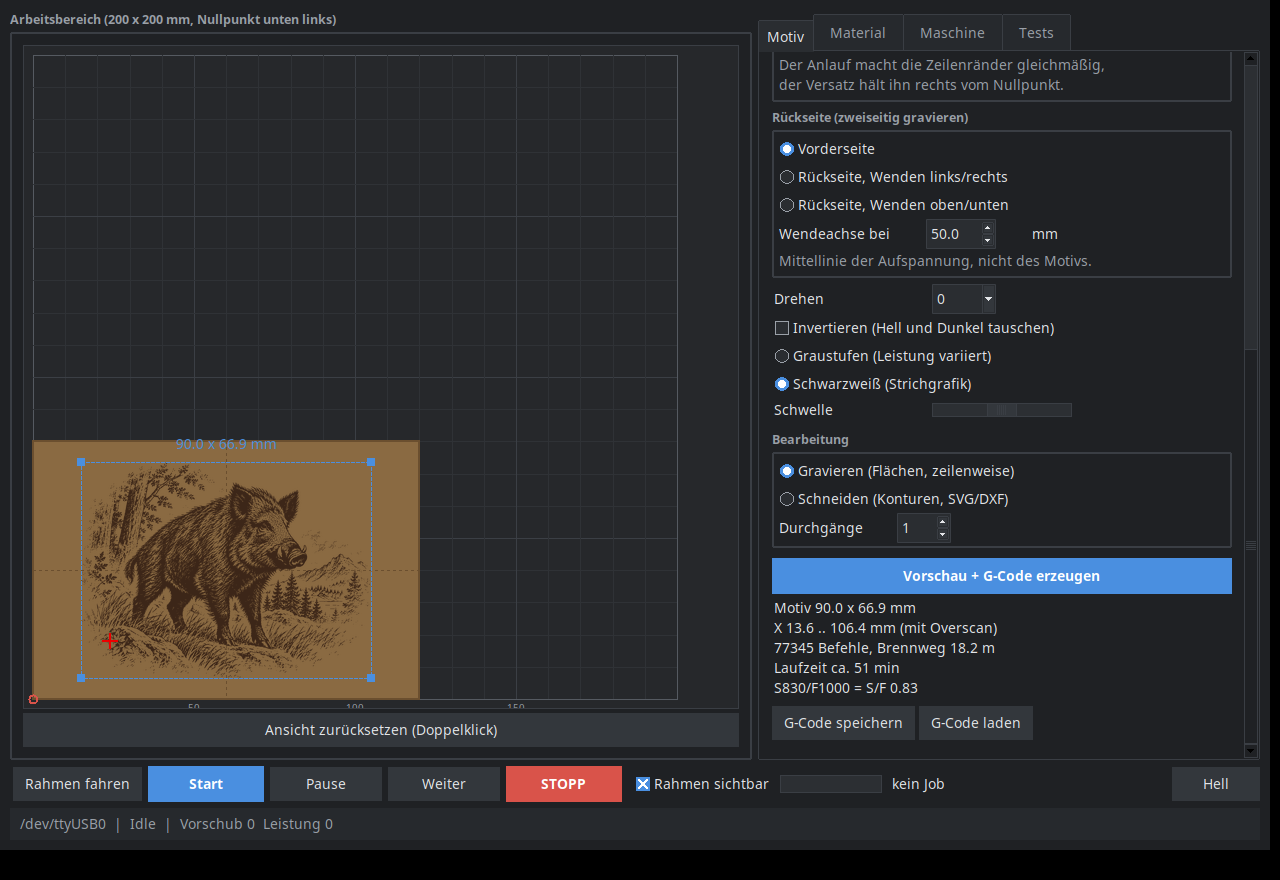
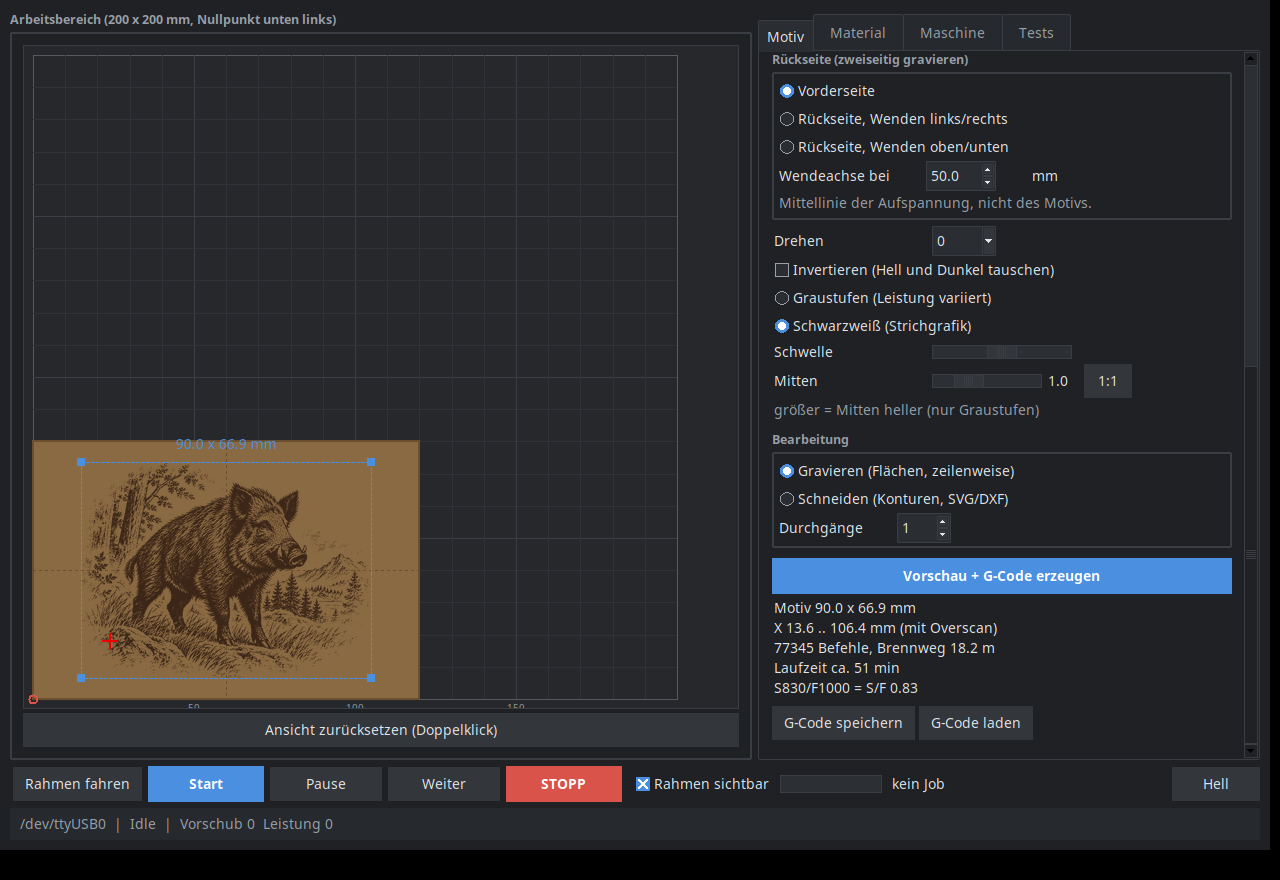
Tonwertregler fuer Graustufen
Der Parameter gamma aus lw_job.prepare() hat jetzt einen Schieber in der
Oberflaeche. Er senkt oder hebt nur die Mitteltoene - Schwarz bleibt
schwarz, fast weisse Stellen bleiben aus. Damit laesst sich ein zulaufendes
Graustufenmotiv retten, ohne die Leistung so weit zu senken, dass auch die
dunklen Stellen flach werden.

Wird im Materialpreset mitgespeichert; aeltere Presets ohne den Wert laufen
weiter und bekommen 1,0.

Changed region(s): [[0.5938, 0.0614, 0.875, 0.4909], [0.8125, 0.4295, 0.8438, 0.4602]]

diff --git a/laserwerk.py b/laserwerk.py
@@ -117,7 +117,7 @@ class App:
         # jede Aenderung, die den G-Code beeinflusst, macht ihn ungueltig
         for v in (self.v_inv, self.v_mode, self.v_schw, self.v_rot,
                   self.v_s, self.v_f, self.v_line, self.v_job, self.v_passes,
-                  self.v_xoff, self.v_over, self.v_yoff,
+                  self.v_xoff, self.v_over, self.v_yoff, self.v_gamma,
                   self.v_spiegel, self.v_achse):
             v.trace_add("write", lambda *a: self._stale())
         for v in (self.v_bw, self.v_bh, self.v_board, self.v_snap):
@@ -286,8 +286,25 @@ class App:
         ttk.Scale(f, from_=0.1, to=0.9, variable=self.v_schw, length=140
                   ).grid(row=12, column=1, columnspan=2, sticky="w")
 
+        # Tonwertkurve: hebt oder senkt nur die Mitten. Schwarz bleibt schwarz,
+        # Weiss bleibt aus - das Mittel gegen "laeuft alles zu".
+        self.v_gamma = tk.DoubleVar(value=1.0)
+        ttk.Label(f, text=T("Mitten")).grid(row=13, column=0, sticky="w")
+        sg = ttk.Frame(f)
+        sg.grid(row=13, column=1, columnspan=2, sticky="w")
+        ttk.Scale(sg, from_=0.4, to=2.5, variable=self.v_gamma, length=110,
+                  command=lambda v: self._gamma_zeigen()).pack(side="left")
+        self.lbl_gamma = ttk.Label(sg, width=4)
+        self.lbl_gamma.pack(side="left", padx=(4, 0))
+        ttk.Button(sg, text="1:1", width=3,
+                   command=lambda: self.v_gamma.set(1.0)).pack(side="left", padx=(2, 0))
+        self.lbl_gammahilfe = ttk.Label(
+            f, text=T("größer = Mitten heller (nur Graustufen)"), style="Muted.TLabel")
+        self.lbl_gammahilfe.grid(row=14, column=0, columnspan=3, sticky="w")
+        self._gamma_zeigen()
+
         jb = ttk.LabelFrame(f, text=T("Bearbeitung"), padding=4)
-        jb.grid(row=13, column=0, columnspan=3, sticky="ew", pady=(8, 0))
+        jb.grid(row=15, column=0, columnspan=3, sticky="ew", pady=(8, 0))
         self.v_job = tk.StringVar(value="gravur")
         ttk.Radiobutton(jb, text=T("Gravieren (Flächen, zeilenweise)"), value="gravur",
                         variable=self.v_job, command=self._job_changed).grid(row=0, column=0, columnspan=3, sticky="w")
@@ -299,11 +316,11 @@ class App:
                     ).grid(row=2, column=1, sticky="w")
 
         ttk.Button(f, text=T("Vorschau + G-Code erzeugen"), command=self.generate, style="Accent.TButton"
-                   ).grid(row=14, column=0, columnspan=3, sticky="ew", pady=(10, 2))
+                   ).grid(row=16, column=0, columnspan=3, sticky="ew", pady=(10, 2))
         self.lbl_info = ttk.Label(f, text="", justify="left")
-        self.lbl_info.grid(row=15, column=0, columnspan=3, sticky="w")
+        self.lbl_info.grid(row=17, column=0, columnspan=3, sticky="w")
         bb = ttk.Frame(f)
-        bb.grid(row=16, column=0, columnspan=3, sticky="ew", pady=6)
+        bb.grid(row=18, column=0, columnspan=3, sticky="ew", pady=6)
         ttk.Button(bb, text=T("G-Code speichern"), command=self.save_gcode).pack(side="left")
         ttk.Button(bb, text=T("G-Code laden"), command=self.load_gcode).pack(side="left", padx=4)
 
@@ -625,6 +642,13 @@ class App:
         self._stale()
         self._draw()
 
+    def _gamma_zeigen(self):
+        try:
+            g = float(self.v_gamma.get())
+        except tk.TclError:
+            return
+        self.lbl_gamma.configure(text=f"{g:.1f}")
+
     def _rotated(self):
         self._keep_ratio("w")
 
@@ -668,6 +692,7 @@ class App:
             if need > src.width * 1.2:
                 src = J.autocrop(J.load_source(self.src_path, need), 245)
         p = J.prepare(src, w, h, line, invert=self.v_inv.get(),
+                      gamma=max(0.2, float(self.v_gamma.get())),
                       rotate=self.v_rot.get(), mode=self.v_mode.get(),
                       schwelle=self.v_schw.get())
         over = max(0.0, float(self.v_over.get()))
@@ -818,6 +843,7 @@ class App:
         self.v_s.set(d.get("s", 830)); self.v_f.set(d.get("f", 1000))
         self.v_line.set(d.get("line", 0.1)); self.v_notiz.set(d.get("notiz", ""))
         self.v_mode.set(d.get("mode", "schwelle")); self.v_schw.set(d.get("schwelle", 0.5))
+        self.v_gamma.set(d.get("gamma", 1.0)); self._gamma_zeigen()
         self.v_pname.set(self.v_preset.get())
 
     def _show_sf(self):
@@ -858,6 +884,7 @@ class App:
         self.presets[n] = dict(dicke=self.v_dicke.get(), korrektur=self.v_korr.get(),
                                s=self.v_s.get(), f=self.v_f.get(), line=self.v_line.get(),
                                mode=self.v_mode.get(), schwelle=round(self.v_schw.get(), 2),
+                               gamma=round(self.v_gamma.get(), 2),
                                notiz=self.v_notiz.get())
         P.save_presets(self.presets)
         self.cb_preset.configure(values=sorted(self.presets))

diff --git a/lw_text.py b/lw_text.py
@@ -599,4 +599,7 @@ EN = {
         "(Laserwerk still open, no STOP, cable not pulled). Then the head\n"
         "stands exactly at the end of the last command executed, and the\n"
         "origin (WCO) is still valid.\n",
+    "Mitten": "Midtones",
+    "größer = Mitten heller (nur Graustufen)":
+        "higher = lighter midtones (greyscale only)",
 }

diff --git a/README.md b/README.md
@@ -21,8 +21,9 @@ settings for a new material.
 ## What it does
 
 - **Engrave** — images (PNG, JPG, WEBP, BMP) and SVG as a raster, row by row,
-  either black and white with a threshold or greyscale with varying power.
-  Overscan at the row ends keeps the edges even.
+  either black and white with a threshold or greyscale with varying power,
+  with a midtone control for the tonal curve. Overscan at the row ends keeps
+  the edges even.
 - **Cut** — contours from SVG and DXF, inner before outer, several passes,
   original size 1:1 for templates straight out of CAD.
 - **Place** — enter the length and width of your workpiece, then drag the
@@ -99,6 +100,14 @@ The presets shipped here were measured on **one** machine: 450 nm, 5.5 W
 optical. A different laser, lens or focus means different values. Treat them as
 a starting point for your own material test, not as a recipe. Too much power at
 too little feed does not mean "darker", it eventually means "on fire".
+
+That goes double for **greyscale**: there every row burns across the whole
+area, and the next row meets material that is already warm. On the reference
+machine S175 worked on cardboard and S130 on plywood — a sixth of what the
+same wood takes as line art. The S value is the maximum, reached at pure
+black; below it sits a floor at 30 %, and near-white areas stay off entirely.
+If an image still fills in, the **Midtones** control helps more than less
+power: it lowers the middle tones only, black stays black.
 
 What does carry over is the **S/F ratio**: power divided by feed, that is the
 energy per millimetre. On the reference machine wood works at S830/F1000 =

diff --git a/README.de.md b/README.de.md
@@ -21,7 +21,8 @@ Material ausprobieren will.
 
 - **Gravieren** — Bilder (PNG, JPG, WEBP, BMP) und SVG als Raster, zeilenweise,
   wahlweise schwarzweiß mit Schwelle oder Graustufen mit veränderlicher
-  Leistung. Anlauf (Overscan) an den Zeilenenden für saubere Ränder.
+  Leistung, samt Tonwertregler für die Mitten. Anlauf (Overscan) an den
+  Zeilenenden für saubere Ränder.
 - **Schneiden** — Konturen aus SVG und DXF, innen vor außen, mehrere Durchgänge,
   Originalgröße 1:1 für Schablonen aus dem CAD.
 - **Platzieren** — Werkstück mit Länge und Breite angeben, Motiv mit der Maus
@@ -99,6 +100,15 @@ Die mitgelieferten Presets wurden auf **einer** Maschine gemessen: 450 nm,
 sind ein Startpunkt für einen eigenen Materialtest, kein Rezept. Zu viel
 Leistung bei zu wenig Vorschub heißt nicht „dunkler", sondern irgendwann
 „brennt".
+
+Für **Graustufen** gilt das doppelt: Dort brennt jede Zeile über die ganze
+Fläche, und die Nachbarzeile trifft schon vorgewärmtes Material. Gemessen
+wurden auf der Referenzmaschine S175 auf Pappe und S130 auf Schichtplatte —
+ein Sechstel dessen, was dasselbe Holz als Strichgrafik verträgt. Der S-Wert
+ist dabei das Maximum, erreicht bei reinem Schwarz; darunter liegt ein Boden
+bei 30 %, und fast weiße Stellen bleiben ganz aus. Läuft ein Motiv trotzdem
+zu, hilft der Regler **Mitten** mehr als weniger Leistung: Er senkt nur die
+Mitteltöne, Schwarz bleibt schwarz.
 
 Was übertragbar ist, ist das **Verhältnis S/F**: Leistung geteilt durch
 Vorschub, also die Energie je Millimeter. Auf der Referenzmaschine hat sich
